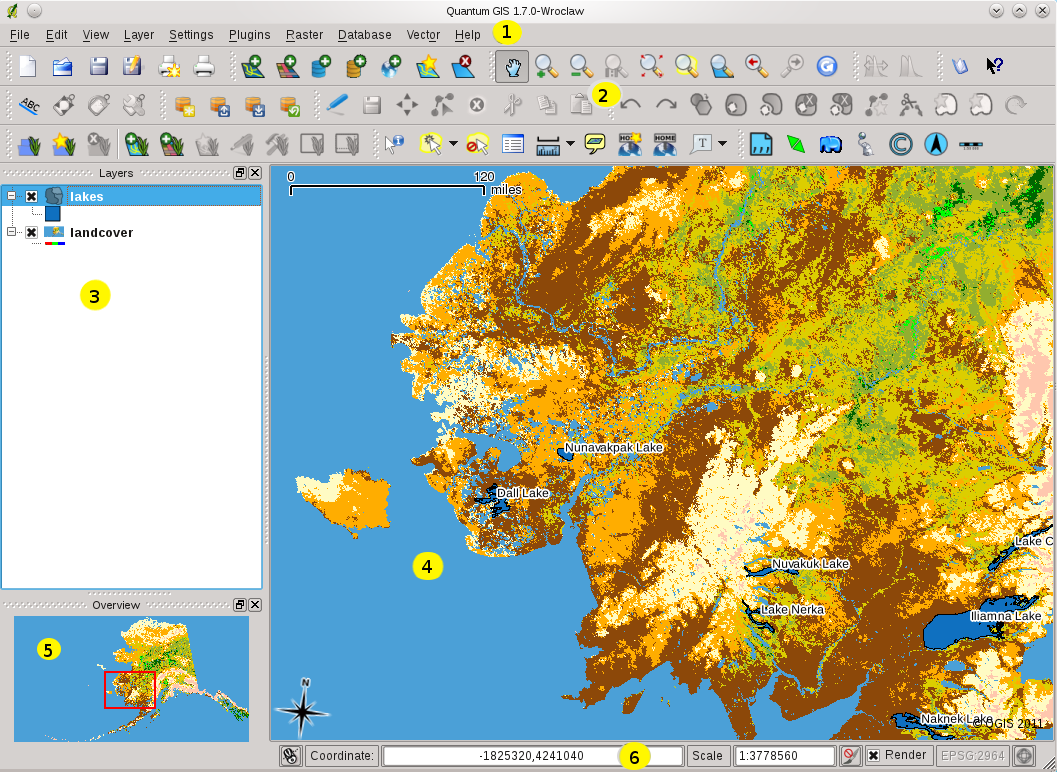
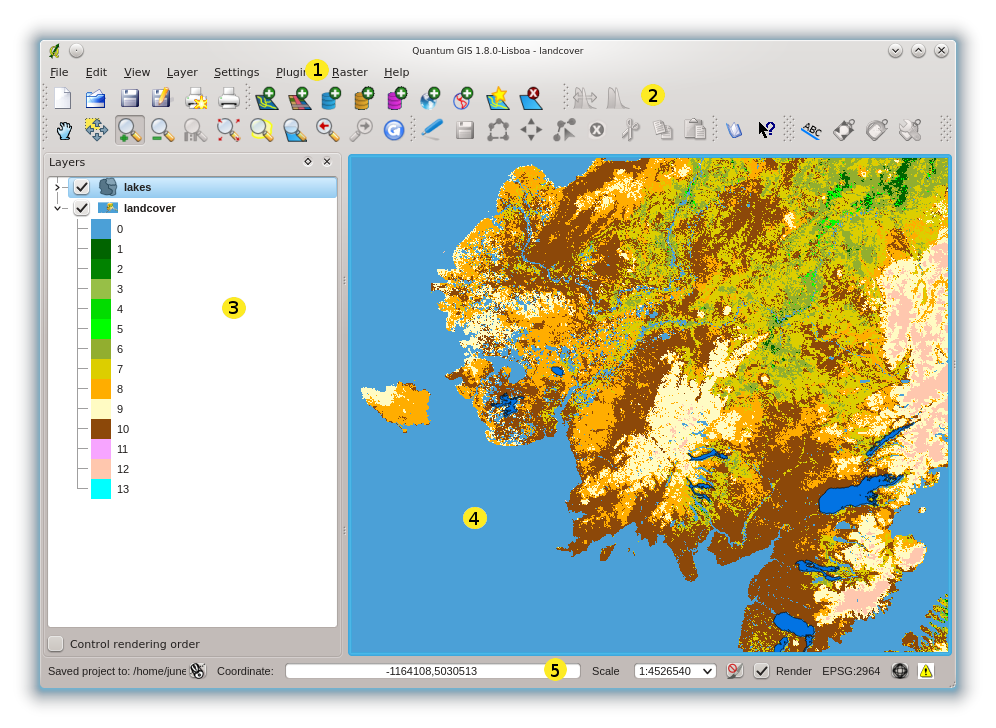
changed GUI figure, update QGIS configuration

diff --git a/source/docs/user_manual/introduction/qgis_configuration.rst b/source/docs/user_manual/introduction/qgis_configuration.rst
@@ -8,8 +8,33 @@ QGIS Configuration
 ******************
 
 QGIS is highly configurable through the :menuselection:`Settings -->` menu.
-Choose between Project properties, Options and Customization.
+Choose between Panels, Toolbars, Project properties, Options and Customization.
 ..  (please add more introduction here)
+
+.. _sec_panels_and_toolbars:
+
+Panels and Toolbars
+===================
+
+In the :menuselection:`Panels-->` menu you can switch on and off QGIS widgets.
+The :menuselection:`Toolbars-->` menu provides the possibility to switch on
+and off icon groups in the QGIS toolbar.
+
+.. index::
+   single:Map overview
+
+.. tip:: **Activating the QGIS overview**
+   
+   In QGIS you can use an overview panel that provides a full extent view of layers added to it.
+   It can be selected under the menu :menuselection:`Settings --> Panels`.
+   Within the view is a rectangle showing the current map extent. This allows
+   you to quickly determine which area of the map you are currently viewing. Note
+   that labels are not rendered to the map overview even if the layers in the
+   map overview have been set up for labeling.
+   If you click and drag the red rectangle in the overview that shows your
+   current extent, the main map view will update accordingly.
+
+
 
 Project Properties
 ==================
@@ -67,7 +92,7 @@ General Tab
   required)`
 * |checkbox| :guilabel:`Open attribute table in a dock window`
 * |checkbox| :guilabel:`Add PostGIS layers with double click and select in extended mode`
-* |checkbox| :guilabel:`Add new layers to selected group`
+* |checkbox| :guilabel:`Add new layers to selected or current group`
 * |checkbox| :guilabel:`Copy geometry in WKT representation from attribute table`
 * :guilabel:`Attribute table behavior` (choose between 'Show all features' (default), 'Show 
   selected features','Show features in current canvas')
@@ -274,7 +299,7 @@ a lot of plug-ins installed that you never use and that are filling your screen.
 
 QGIS Customization is divided into five groups. In |checkbox| :guilabel:`Docks` you 
 find the dock windows. Dock windows are applications that can be started and used as
-a floating, top-level window or embedded to the QGIS main window as a docked widget.
+a floating, top-level window or embedded to the QGIS main window as a docked widget (see also sec_panels_and_toolbars_).
 In |checkbox| :guilabel:`Menus` you can hide entries in the Menu bar. In the
 |checkbox| :guilabel:`Status Bar` features like the coordinate information can be daectivated.
 In |checkbox| :guilabel:`Toolbars` you can (de)activate the toolbar icons of QGIS

diff --git a/source/docs/user_manual/introduction/qgis_gui.rst b/source/docs/user_manual/introduction/qgis_gui.rst
@@ -23,9 +23,9 @@ interface as discussed below):
 
 .. figure:: /static/user_manual/introduction/startup.png
    :align: center
-   :width: 40em
+   :width: 50em
 
-   QGIS GUI with Alaska sample data (KDE)
+   QGIS GUI with Alaska sample data |nix|
 
 .. note:: 
    Your window decorations (title bar, etc.) may appear
@@ -36,14 +36,12 @@ The QGIS GUI is divided into six areas:
 +--------------+-----------------+
 |1. Menu Bar   | 4. Map View     |
 +--------------+-----------------+
-|2. Tool Bar   | 5. Map Overview |
+|2. Tool Bar   | 5. Status Bar   |
 +--------------+-----------------+
-|3. Map Legend | 6. Browser      |
-+--------------+-----------------+
-|7. Status Bar |                 |
+|3. Map Legend |                 |
 +--------------+-----------------+
 
-These seven components of the QGIS interface are described in more detail in
+These five components of the QGIS interface are described in more detail in
 the following sections. Two more sections present keyboard shortcuts and
 context help.
 
@@ -276,13 +274,13 @@ Menu Option                                                     Shortcut        
 
 .. _`label_toolbars`:
 
-Toolbars
---------
+Toolbar
+-------
 
 .. index::
-   single:toolbars
+   single:toolbar
 
-The toolbars provide access to most of the same functions as the menus,
+The toolbar provides access to most of the same functions as the menus,
 plus additional tools for interacting with the map. Each toolbar item has
 popup help available. Hold your mouse over the item and a short description of
 the tool's purpose will be displayed.
